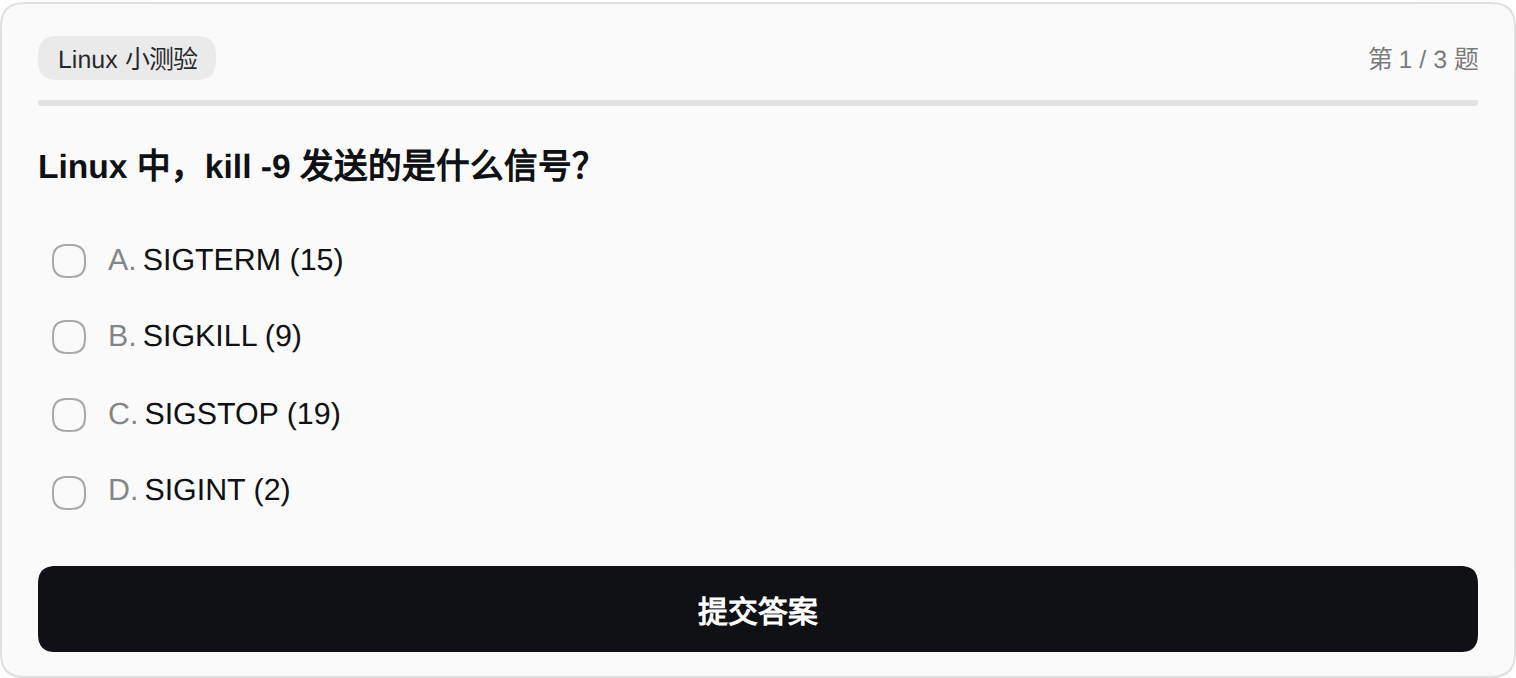
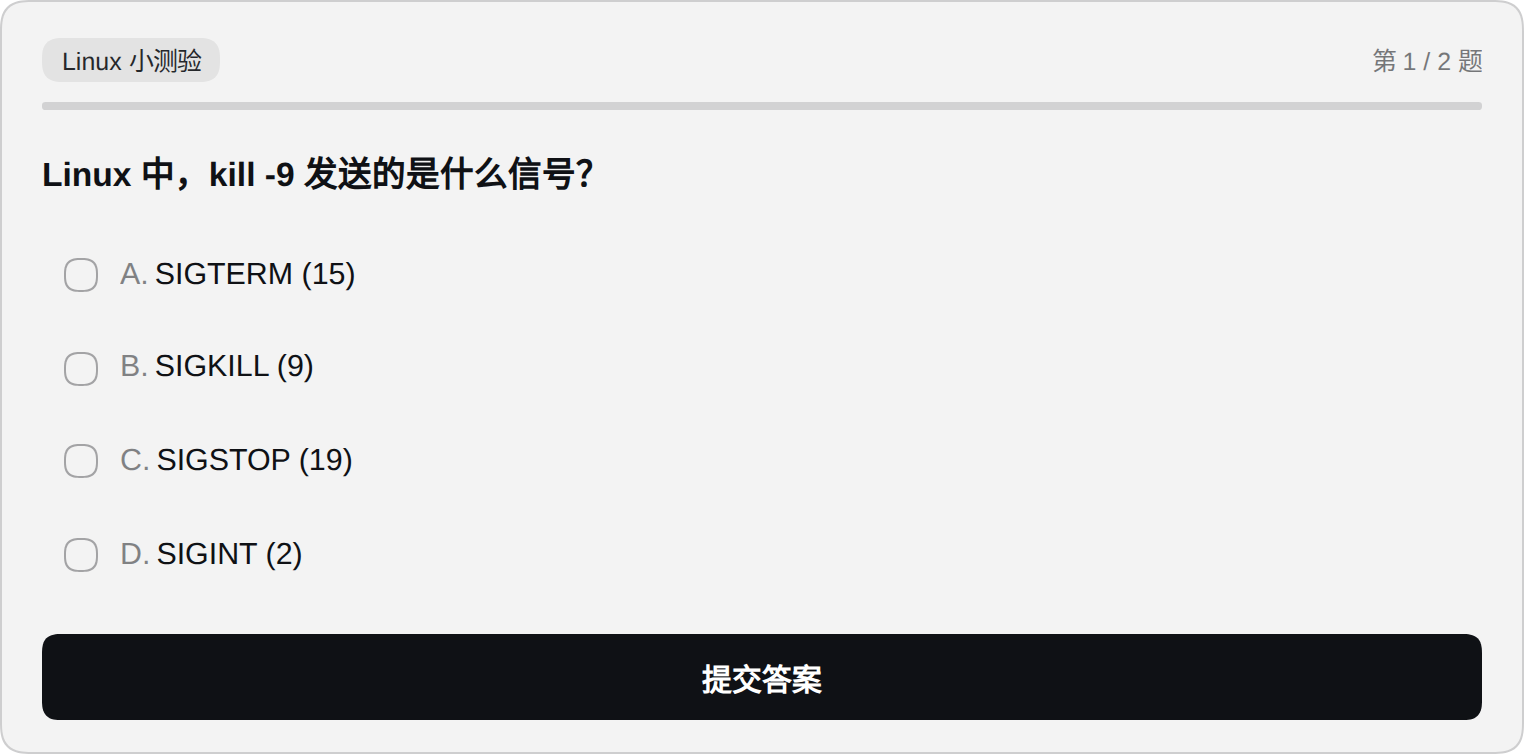
fix(style): self-heal the injected stylesheet; raise card contrast
The host rewrites <head> on theme changes and drops style nodes it does not
own, which left the figures fully unstyled (default buttons, no card).
scan() now re-asserts the stylesheet on every pass, and the style node carries
a plugin marker.

Also bump the card surface (2% -> 5%) and border weight (11% -> 16%),
tint gray/plain boxes, and give quiz options a real selected state.

Bump to 0.2.0 and expose plugin.version for support.

diff --git a/lib/client.js b/lib/client.js
@@ -32,7 +32,7 @@ window.__ModuleLoader__.load({
     const STYLE_ID = 'dsh-chat-figure-style';
 
     const CSS = `
-.dfg{margin:16px auto;max-width:720px;border:1px solid color-mix(in srgb,currentColor 11%,transparent);border-radius:14px;padding:14px 16px 12px;background:color-mix(in srgb,currentColor 2%,transparent)}
+.dfg{margin:16px auto;max-width:720px;border:1px solid color-mix(in srgb,currentColor 16%,transparent);border-radius:16px;padding:16px 18px 14px;background:color-mix(in srgb,currentColor 5%,transparent)}
 .dfg-head{text-align:center;margin-bottom:14px}
 .dfg-title{font-size:1.03em;font-weight:700;letter-spacing:.01em;line-height:1.45}
 .dfg-sub{margin-top:4px;font-size:.82em;opacity:.6;line-height:1.55}
@@ -44,8 +44,8 @@ window.__ModuleLoader__.load({
 .dfg-blue{background:color-mix(in srgb,#2f6fed 9%,transparent);border-color:color-mix(in srgb,#2f6fed 30%,transparent)}
 .dfg-green{background:color-mix(in srgb,#128a5a 9%,transparent);border-color:color-mix(in srgb,#128a5a 30%,transparent)}
 .dfg-amber{background:color-mix(in srgb,#b7791f 10%,transparent);border-color:color-mix(in srgb,#b7791f 30%,transparent)}
-.dfg-gray{background:color-mix(in srgb,currentColor 5%,transparent);border-color:color-mix(in srgb,currentColor 14%,transparent)}
-.dfg-plain{background:transparent;border-color:color-mix(in srgb,currentColor 13%,transparent)}
+.dfg-gray{background:color-mix(in srgb,currentColor 8%,transparent);border-color:color-mix(in srgb,currentColor 20%,transparent)}
+.dfg-plain{background:color-mix(in srgb,currentColor 2%,transparent);border-color:color-mix(in srgb,currentColor 18%,transparent)}
 .dfg-arrow{display:flex;flex-direction:column;align-items:center;gap:1px;padding:6px 0}
 .dfg-bar{width:2px;height:18px;background:currentColor;opacity:.45}
 .dfg-bar--end{position:relative;height:18px;margin-bottom:2px}
@@ -55,7 +55,7 @@ window.__ModuleLoader__.load({
 .dfg-note{text-align:center;font-size:.81em;opacity:.6;margin-top:10px;line-height:1.55}
 .dfg-pills{display:flex;flex-wrap:wrap;gap:7px;justify-content:center;margin-top:10px}
 .dfg-pill{border:1px solid color-mix(in srgb,currentColor 14%,transparent);border-radius:999px;padding:2px 10px;font-size:.78em;opacity:.75}
-.dfg-foot{margin-top:14px;padding-top:10px;border-top:1px solid color-mix(in srgb,currentColor 8%,transparent);font-size:.78em;opacity:.55;line-height:1.65}
+.dfg-foot{margin-top:14px;padding-top:10px;border-top:1px solid color-mix(in srgb,currentColor 14%,transparent);font-size:.78em;opacity:.55;line-height:1.65}
 .dfg-gap{height:6px}
 .dfg-tree{padding:12px 14px}
 .dft{display:flex;flex-direction:column;gap:1px}
@@ -66,7 +66,7 @@ window.__ModuleLoader__.load({
 .dft-t.is-parent{font-weight:600}
 .dft-t.is-leaf{opacity:.62}
 .dft-h{font-size:.78em;opacity:.5;margin-left:2px}
-.dfg-quiz{padding:16px 18px 12px}
+.dfg-quiz{padding:18px 20px 16px}
 .dfq-title{font-weight:700;font-size:1.02em;text-align:center;margin-bottom:14px;line-height:1.5}
 .dfq-q{padding:12px 0;border-top:1px solid color-mix(in srgb,currentColor 8%,transparent)}
 .dfq-q:first-of-type{border-top:0;padding-top:0}
@@ -96,14 +96,16 @@ window.__ModuleLoader__.load({
 .dfs-head{display:flex;align-items:center;justify-content:space-between;gap:10px;margin-bottom:8px}
 .dfs-tag{font-size:.78em;padding:2px 10px;border-radius:999px;background:color-mix(in srgb,currentColor 7%,transparent);opacity:.9}
 .dfs-count{font-size:.78em;opacity:.55;font-variant-numeric:tabular-nums;white-space:nowrap}
-.dfs-track{height:3px;border-radius:999px;background:color-mix(in srgb,currentColor 10%,transparent);overflow:hidden;margin:10px 0 18px}
-.dfs-fill{height:100%;border-radius:999px;background:color-mix(in srgb,currentColor 38%,transparent);transition:width .25s ease}
+.dfs-track{height:4px;border-radius:999px;background:color-mix(in srgb,currentColor 14%,transparent);overflow:hidden;margin:10px 0 20px}
+.dfs-fill{height:100%;border-radius:999px;background:color-mix(in srgb,currentColor 55%,transparent);transition:width .25s ease}
 .dfs-q{font-weight:700;font-size:1.05em;line-height:1.6;margin-bottom:14px}
-.dfs-opts{display:flex;flex-direction:column;gap:1px}
-.dfs-opt{display:flex;gap:11px;align-items:center;padding:6px 6px;border:1px solid transparent;border-radius:9px;background:none;color:inherit;font:inherit;text-align:left;cursor:pointer;transition:background .12s}
-.dfs-opt:hover{background:color-mix(in srgb,currentColor 4%,transparent)}
+.dfs-opts{display:flex;flex-direction:column;gap:3px}
+.dfs-opt{display:flex;gap:11px;align-items:center;padding:9px 10px;border:1px solid transparent;border-radius:10px;background:none;color:inherit;font:inherit;text-align:left;cursor:pointer;transition:background .12s,border-color .12s}
+.dfs-opt:hover{background:color-mix(in srgb,currentColor 6%,transparent)}
+.dfs-opt.is-picked{background:color-mix(in srgb,currentColor 6%,transparent);border-color:color-mix(in srgb,currentColor 26%,transparent)}
 .dfs-dot{width:17px;height:17px;border-radius:50%;border:1.5px solid color-mix(in srgb,currentColor 35%,transparent);flex:none;box-sizing:border-box;transition:border .12s}
 .dfs-opt.is-picked .dfs-dot{border-width:5.5px;border-color:currentColor}
+.dfs-opt.is-right.is-picked{background:color-mix(in srgb,#128a5a 13%,transparent);border-color:color-mix(in srgb,#128a5a 34%,transparent)}
 .dfs-opt.is-right{background:color-mix(in srgb,#128a5a 9%,transparent)}
 .dfs-opt.is-right .dfs-dot{border-color:#128a5a}
 .dfs-opt.is-wrong{background:color-mix(in srgb,#d14343 8%,transparent)}
@@ -129,6 +131,7 @@ window.__ModuleLoader__.load({
       if (doc.getElementById(STYLE_ID)) return;
       const style = doc.createElement('style');
       style.id = STYLE_ID;
+      style.dataset.plugin = 'dsh-chat-figure';
       style.textContent = CSS;
       (doc.head || doc.documentElement).appendChild(style);
     }
@@ -751,6 +754,9 @@ window.__ModuleLoader__.load({
       injectStyle(doc);
       const scan = () => {
         try {
+          // Re-assert the stylesheet: the host rewrites <head> when the theme
+          // changes, which drops nodes it does not own.
+          injectStyle(doc);
           for (const pre of doc.querySelectorAll('pre')) processPre(doc, pre);
         } catch {
           /* never let a malformed block break the transcript */
@@ -776,7 +782,10 @@ window.__ModuleLoader__.load({
       };
     }
 
+    const VERSION = '0.2.0';
+
     return {
+      version: VERSION,
       // Exposed for the workspace smoke test; not used by the host.
       __figure: {
         parseFigure,

diff --git a/README.md b/README.md
@@ -150,6 +150,13 @@ ln -s /home/a3165/workspace/dsh-chat-figure ~/.dsh/profiles/web/node_modules/dsh
 - jsdom 冒烟测试：解析、渲染、幂等、流式半截内容、shiki 行结构、无关代码块不受影响
 - 真实应用外壳（headless Chromium + 独立实例）：浅色/深色主题都正常渲染，见 `docs/preview-*.png`
 
+## 样式为什么可能整体失效
+
+卡片的所有样式都来自插件注入到 `<head>` 的一个 `<style>`。宿主在切换主题时会重写
+`<head>`，不认识的节点会被删掉，于是卡片变成浏览器默认样式（无边框、选项挤成一行）。
+插件的 `scan()` 每次都会 `injectStyle()` 续上，所以只要页面上再有任何一次 DOM 变化就会自愈。
+排查时可以在控制台执行 `document.getElementById('dsh-chat-figure-style')` 确认样式表在不在。
+
 ## 已知限制
 
 - 靠 `pre` 元素文本里的 `%%…` 哨兵识别，不依赖代码块的 class，代码块组件改样式也不会失效；
